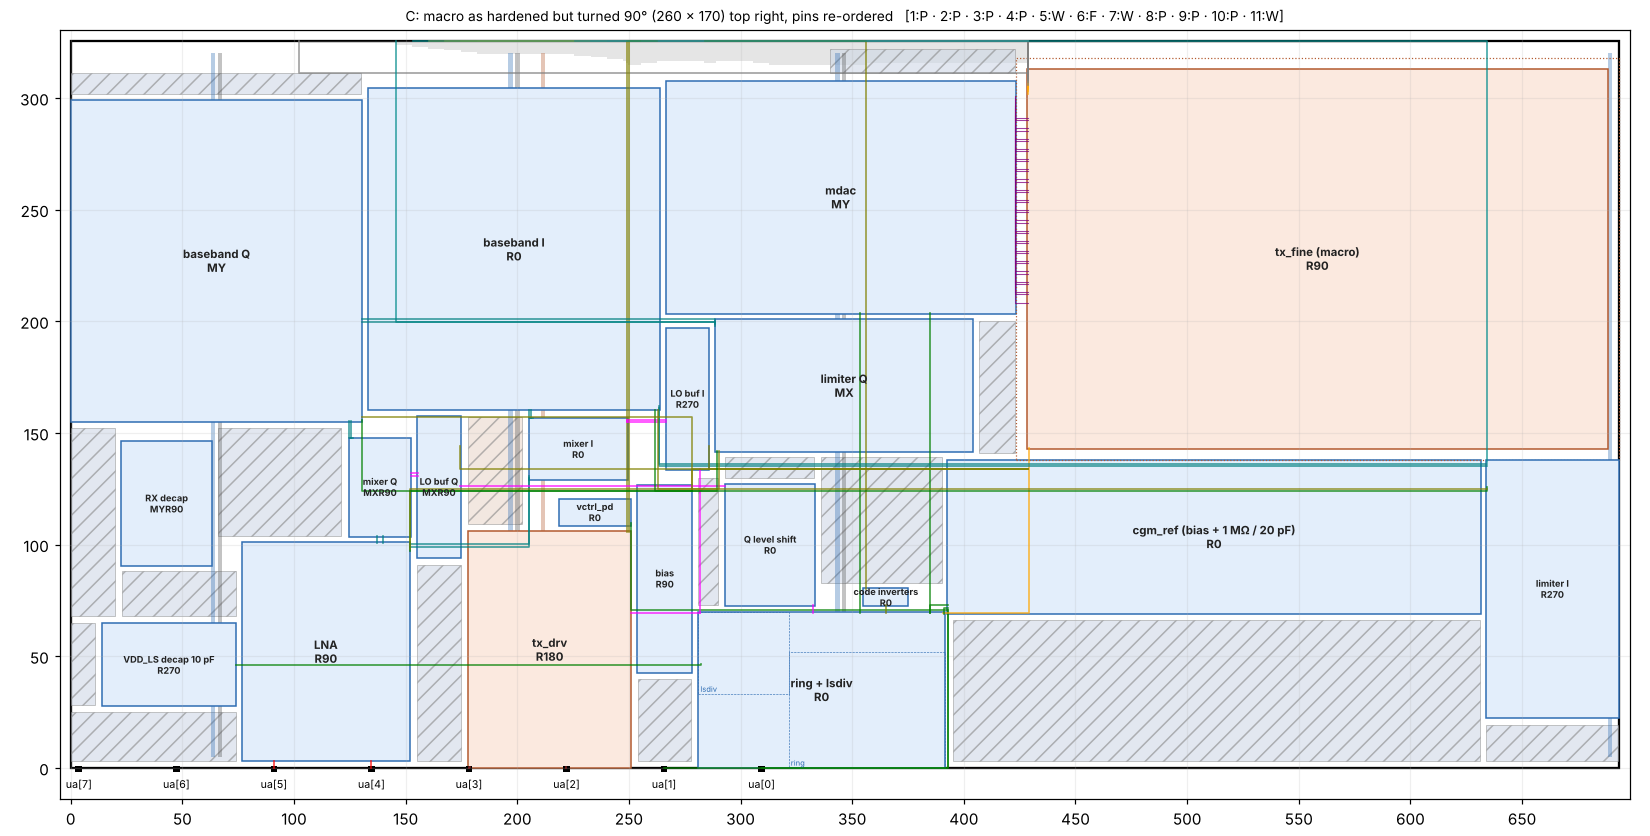
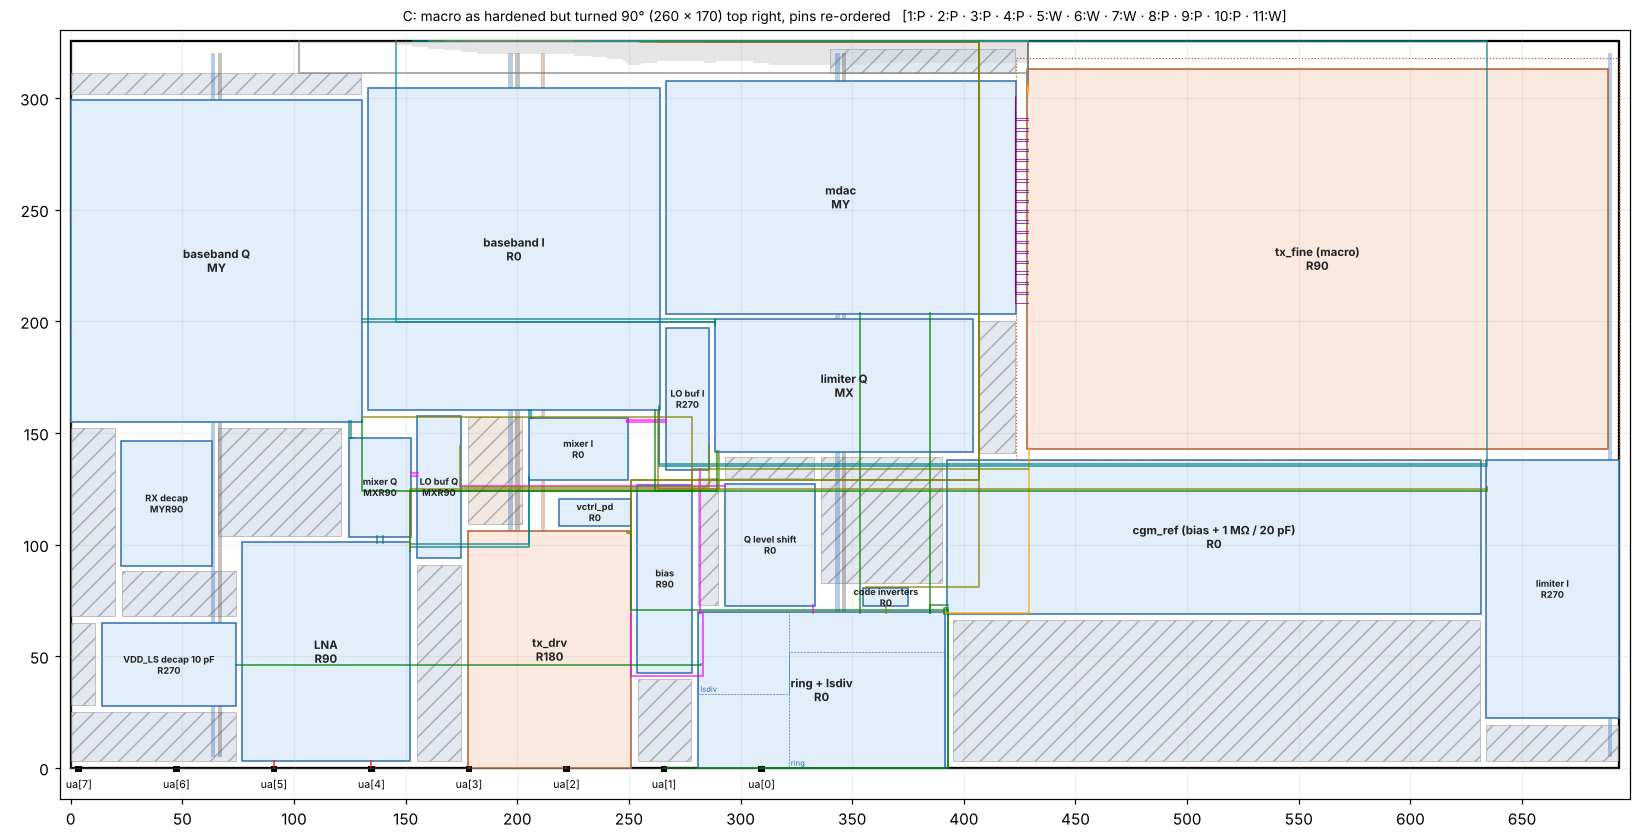
floorplan: rule 6 routes wires round the receiver instead of failing on a crossing flyline
A clock / digital / DAC / enable / TX / LO wire whose L route crosses a receiver block is routed round it on a 2 um
grid (A*); its length and drawing follow the route. Rule 6 scores the total detour and fails only when there is no way
round. rx_en reaches the LO buffers inside the receiver, as rx_top's en does. A and B now pass rule 6.

Claude-Session: https://claude.ai/code/session_011q23dScbDKopB6GSLnshRw

Changed region(s): [[0.2473, 0.0, 0.7727, 0.0311], [0.2782, 0.5598, 0.6182, 0.622]]

diff --git a/layout/floorplan/page/engine.js b/layout/floorplan/page/engine.js
@@ -152,7 +152,7 @@
     ['bq_p', 'rx', 'rx.mix_q.bbp', 'rx.bb_q.inp'], ['bq_n', 'rx', 'rx.mix_q.bbn', 'rx.bb_q.inn'],
     ['oi_p', 'rx', 'rx.bb_i.outp', 'rx.lim_i.inp'], ['oi_n', 'rx', 'rx.bb_i.outn', 'rx.lim_i.inn'],
     ['oq_p', 'rx', 'rx.bb_q.outp', 'rx.lim_q.inp'], ['oq_n', 'rx', 'rx.bb_q.outn', 'rx.lim_q.inn'],
-    ['rx_en lo_i', 'en', 'xmac.rx_en', 'rx.lobuf_i.en'], ['rx_en lo_q', 'en', 'xmac.rx_en', 'rx.lobuf_q.en'],
+    ['rx_en lo_i', 'en', 'rx.bias.en', 'rx.lobuf_i.en'], ['rx_en lo_q', 'en', 'rx.bias.en', 'rx.lobuf_q.en'],   // inside the receiver, as rx_top's en
   ].concat(['lna', 'bb_i', 'bb_q', 'lim_i', 'lim_q'].flatMap(c => [[`nb ${c}`, 'ana', 'rx.bias.nb', `rx.${c}.nb`], [`enb ${c}`, 'en', 'rx.bias.enb', `rx.${c}.enb`]]));
   const NET_CLASSES = {
     rfin: 'RX input', rx: 'RX signal', rxout: 'RX outputs', lo: 'LO', clk: 'ring-derived clock', dig: '25 MHz / SPI', fine: 'fine-tune bus',
@@ -167,6 +167,7 @@
     track: 0.8,            // um per wire in the top routing channel (tt_wrapper: 0.8 um M2 tracks)
     r1: 150,               // 1. RX input <-> macro and ring-derived / digital wires >= (um)
     r2a: 40, r2b: 120, r2m: 150,   // 2. a2 wire <=, ls -> rx <=, ls load - lsq load <=
+    r6: 300,               // 6. total extra length of the wires routed round the receiver <=
     r3: 40,                // 3. ua[4] / ua[5] -> LNA <=
     r4: 80,                // 4. tx_drv -> ua[2] / ua[3] <=
     r7: 200, r7b: 60,      // 7. DAC line (longest) <=, mdac.vg -> vco_top.vg <=
@@ -265,9 +266,80 @@
       const ownA = ownerOf(a), ownB = ownerOf(b);
       const others = Object.values(R.inst).filter(i => i.name !== ownA && i.name !== ownB).map(i => i.rect);
       const est = [a, b].some(r => { const o = ownerOf(r); return o && R.inst[o] && (R.inst[o].pins[r.slice(o.length + 1)] || {}).est; });
-      out.push({ name, cls, a, b, pa, pb, len: manhattan(pa, pb), segs: lRoute(pa, pb, others), est });
+      const n = { name, cls, a, b, pa, pb, len: manhattan(pa, pb), segs: lRoute(pa, pb, others), est };
+      // a clock / digital / DAC / enable / TX / LO wire whose L route crosses a receiver block (not one of its own
+      // ends; wires with both ends in the receiver are its own routing) is routed round the receiver on a grid
+      const rxOwn = [ownA, ownB].map(o => o && R.inst[o] && R.inst[o].cat.group === 'rx');
+      if (NOT_OVER_RX.includes(cls) && !(rxOwn[0] && rxOwn[1])) {
+        const rx = Object.values(R.inst).filter(i => i.cat.group === 'rx' && i.name !== ownA && i.name !== ownB).map(i => i.rect);
+        if (n.segs.some(sg => rx.some(r => segCrosses(sg, r, 0.6)))) {
+          const segs = mazeRoute(tile, pa, pb, rx);
+          if (segs) { n.segs = segs; n.len = segs.reduce((t, q) => t + Math.abs(q[2] - q[0]) + Math.abs(q[3] - q[1]), 0); n.detour = n.len - manhattan(pa, pb); }
+          else n.blocked = true;
+        }
+      }
+      out.push(n);
     }
     return out;
+  }
+
+  // Shortest Manhattan path from a to b on a GRID um grid that avoids the obstacle rects (each grown by 0.4 um),
+  // with a small penalty per turn; returns axis-aligned segments from a to b, or null when there is no way round.
+  const GRID = 2;
+  function mazeRoute(tile, a, b, obst) {
+    const nx = Math.ceil(tile.w / GRID), ny = Math.ceil(tile.h / GRID), N = nx * ny, blk = new Uint8Array(N);
+    for (const r of obst) {
+      const x0 = Math.max(0, Math.floor((r[0] - 0.4) / GRID)), x1 = Math.min(nx - 1, Math.floor((r[0] + r[2] + 0.4) / GRID));
+      const y0 = Math.max(0, Math.floor((r[1] - 0.4) / GRID)), y1 = Math.min(ny - 1, Math.floor((r[1] + r[3] + 0.4) / GRID));
+      for (let y = y0; y <= y1; y++) for (let x = x0; x <= x1; x++) blk[y * nx + x] = 1;
+    }
+    const cell = p => [Math.min(nx - 1, Math.max(0, Math.floor(p[0] / GRID))), Math.min(ny - 1, Math.max(0, Math.floor(p[1] / GRID)))];
+    const [sx, sy] = cell(a), [tx, ty] = cell(b), S0 = sy * nx + sx, T = ty * nx + tx;
+    blk[S0] = 0; blk[T] = 0;
+    // A* over (cell, direction), direction 0..3 = +x -x +y -y, 4 = start
+    const g = new Float64Array(N * 5).fill(Infinity), from = new Int32Array(N * 5).fill(-1), heap = [];
+    const push = (f, k) => { heap.push([f, k]); let i = heap.length - 1; while (i) { const p = (i - 1) >> 1; if (heap[p][0] <= heap[i][0]) break; [heap[p], heap[i]] = [heap[i], heap[p]]; i = p; } };
+    const pop = () => { const top = heap[0], last = heap.pop(); if (heap.length) { heap[0] = last; let i = 0; for (;;) { const l = 2 * i + 1, r = l + 1; let m = i; if (l < heap.length && heap[l][0] < heap[m][0]) m = l; if (r < heap.length && heap[r][0] < heap[m][0]) m = r; if (m === i) break; [heap[m], heap[i]] = [heap[i], heap[m]]; i = m; } } return top; };
+    const h = c => Math.abs((c % nx) - tx) + Math.abs(((c / nx) | 0) - ty);
+    g[S0 * 5 + 4] = 0; push(h(S0), S0 * 5 + 4);
+    const D = [[1, 0], [-1, 0], [0, 1], [0, -1]];
+    let end = -1;
+    while (heap.length) {
+      const [, k] = pop(), c = (k / 5) | 0, d = k % 5;
+      if (c === T) { end = k; break; }
+      const cx = c % nx, cy = (c / nx) | 0;
+      for (let e = 0; e < 4; e++) {
+        const x = cx + D[e][0], y = cy + D[e][1];
+        if (x < 0 || y < 0 || x >= nx || y >= ny) continue;
+        const c2 = y * nx + x; if (blk[c2]) continue;
+        const k2 = c2 * 5 + e, ng = g[k] + 1 + (d !== 4 && d !== e ? 0.5 : 0);
+        if (ng < g[k2]) { g[k2] = ng; from[k2] = k; push(ng + h(c2), k2); }
+      }
+    }
+    if (end < 0) return null;
+    const cells = []; for (let k = end; k >= 0; k = from[k]) cells.push((k / 5) | 0);
+    cells.reverse();
+    const pts = [a];
+    const ctr = c => [((c % nx) + 0.5) * GRID, (((c / nx) | 0) + 0.5) * GRID];
+    let prev = a;
+    for (let i = 0; i < cells.length; i++) {
+      const p = ctr(cells[i]), q = i === 0 ? [p[0], a[1]] : null;
+      if (q) { if (q[0] !== prev[0]) pts.push(q); prev = q; }
+      pts.push(p); prev = p;
+    }
+    const last = pts[pts.length - 1];
+    if (last[0] !== b[0]) pts.push([b[0], last[1]]);
+    pts.push(b);
+    // merge collinear points into segments
+    const segs = [];
+    for (let i = 0; i < pts.length - 1; i++) {
+      const s0 = [pts[i][0], pts[i][1], pts[i + 1][0], pts[i + 1][1]];
+      if (s0[0] === s0[2] && s0[1] === s0[3]) continue;
+      const L = segs[segs.length - 1];
+      if (L && ((L[0] === L[2] && s0[0] === s0[2] && L[2] === s0[0]) || (L[1] === L[3] && s0[1] === s0[3] && L[3] === s0[1]))) { L[2] = s0[2]; L[3] = s0[3]; }
+      else segs.push(s0);
+    }
+    return segs;
   }
 
   // The routing channel along the top: every net with a top-edge TT pin runs horizontally there, between the pin's
@@ -400,20 +472,17 @@
         `${cross.length} signals cross VAPWR ↔ VDPWR (3.3 V both, no level shifters; listed under Nets). Closest VAPWR ↔ VDPWR blocks ${fmt(sep, 1)} µm.`);
     }
 
-    // 6. no digital or LO wire over the receiver
+    // 6. no digital or LO wire over the receiver: such wires are routed round it (routeNets); fails only when there is
+    // no way round, warns when the detours add up past the threshold
     if (rxInst.length) {
-      const over = [];
-      for (const n of nets) {
-        if (!ok(n) || !NOT_OVER_RX.includes(n.cls)) continue;
-        const own = [ownerOf(n.a), ownerOf(n.b)];
-        for (const ri of rxInst) {
-          if (own.includes(ri.name)) continue;
-          if (n.segs.some(sg => segCrosses(sg, ri.rect, 0.6))) { over.push(`${n.name} over ${ri.cat.label || ri.name}`); break; }
-        }
-      }
+      const rr = nets.filter(n => ok(n) && n.detour !== undefined), bl = nets.filter(n => ok(n) && n.blocked);
+      const tot = rr.reduce((t, n) => t + n.detour, 0);
       const ch = rxInst.filter(ri => chanSh.some(c => overlap(c, ri.rect) > 0)).map(ri => ri.cat.label || ri.name);
-      add(6, 'No digital or LO wire over the RX', over.length || ch.length ? 'fail' : 'pass', over.length + ch.length ? `${over.length + ch.length}` : 'none',
-        (over.length ? `Flylines over receiver blocks: ${over.slice(0, 12).join(', ')}${over.length > 12 ? ` and ${over.length - 12} more` : ''}. ` : 'No clock, digital, DAC, enable, TX or LO flyline crosses a receiver block (its own wires excepted). ') +
+      const big = rr.slice().sort((p, q) => q.detour - p.detour);
+      add(6, 'No digital or LO wire over the RX', bl.length || ch.length ? 'fail' : tot > s.r6 ? 'warn' : 'pass',
+        bl.length ? `${bl.length} blocked` : rr.length ? `${rr.length} round, +${fmt(tot)} µm` : 'none',
+        (bl.length ? `No way round the receiver for: ${bl.map(n => n.name).join(', ')}. ` : '') +
+        (rr.length ? `Routed round the receiver (their straight L route would cross it): ${big.slice(0, 10).map(n => `${n.name} +${fmt(n.detour)}`).join(', ')}${big.length > 10 ? ` and ${big.length - 10} more` : ''} µm; detours ${fmt(tot)} µm in all (want ≤ ${s.r6}). ` : 'No clock, digital, DAC, enable, TX or LO wire needs to cross the receiver. ') +
         (ch.length ? `The top channel runs over: ${ch.join(', ')}. ` : '') + 'The baseband and limiter AC-coupling nodes are ~60 MΩ.');
     } else add(6, 'No digital or LO wire over the RX', 'info', '-', 'Place the receiver.');
 

diff --git a/layout/floorplan/page/page.html b/layout/floorplan/page/page.html
@@ -435,7 +435,7 @@ function draw() {
     if (n.missing) continue;
     if (S.layers.bus && n.cls === 'fine' && !/^dac_(tn\[0\]|tn\[30\]|sdn)$/.test(n.name)) continue;
     const hot = S.hoverNet === n.name;
-    const pts = [n.pa, n.segs[0].slice(2, 4), n.pb];
+    const pts = [n.segs[0].slice(0, 2)].concat(n.segs.map(q => q.slice(2, 4)));   // the L route, or the route round the receiver
     out.push(`<polyline data-net="${esc(n.name)}" points="${pts.map(p => `${p[0]},${Y(p[1])}`).join(' ')}" fill="none" stroke="${NET_COLOR[n.cls]}" stroke-width="${(hot ? 2.6 : n.cls === 'fine' ? 0.7 : 1.1) * scale}" stroke-opacity="${hot ? 1 : .8}" ${n.cls === 'en' ? `stroke-dasharray="${3 * scale} ${2 * scale}"` : n.est ? `stroke-dasharray="${1 * scale} ${1.5 * scale}"` : ''}/>`);
     out.push(`<polyline data-net="${esc(n.name)}" points="${pts.map(p => `${p[0]},${Y(p[1])}`).join(' ')}" fill="none" stroke="transparent" stroke-width="${7 * scale}"/>`);
   }
@@ -704,7 +704,7 @@ const WHY = {
   'LNA at ua[4] / ua[5]': 'The input pair: short, symmetric wires keep the input match and the common-mode rejection, and keep the input away from everything else.',
   'TX driver at ua[2] / ua[3]': 'tx_drv pushes 12.6 mA of 434 MHz edges into the pads: long wires add R, L and C, and radiate inside the tile. It is off while receiving, so its distance from the RX is soft, but ua[3] is the pad next to ua[4].',
   'Supply domains': 'VAPWR (3.3 V) feeds the quiet analog (vco_top, mdac, vctrl_pd, the code inverters) and the receiver; VDPWR feeds tx_drv and the digital macro; VGND is shared. Each block should take its supply from a nearby stripe of its own rail, and every signal between the two domains is a place where the supplies and grounds meet (listed under Supply crossings; all 3.3 V to 3.3 V, no level shifters).',
-  'No digital or LO wire over the RX': 'The baseband and limiter AC-coupling nodes are about 60 MΩ: a µV of coupling there is a signal. No clock, digital, DAC, enable, TX or LO flyline may cross a receiver block (its own wires excepted), nor the top channel run over it.',
+  'No digital or LO wire over the RX': 'The baseband and limiter AC-coupling nodes are about 60 MΩ: a µV of coupling there is a signal. So no clock, digital, DAC, enable, TX or LO wire runs over a receiver block (its own wires excepted, and the receiver\'s internal wiring). A wire whose straight L route would cross the receiver is routed round it on a 2 µm grid and drawn that way; the rule warns when the detours add up past the threshold and fails only when a wire has no way round, or the top channel runs over the receiver.',
   'Short fine-tune bus': 'The 37 DAC control lines (thermometer, binary and ΣΔ) from tx_fine to mdac switch with the code and the ΣΔ dither; short lines are less load for the macro and less coupling. mdac\'s vg output goes straight into the ring\'s shared node: it must be short.',
   'Macro near the top edge': 'The TT digital pins are on the top edge (x 15–321); the macro talks to them (clk, rst_n, SPI, fsk, ck_o and the dividers), and the code and enable pins go to vco_top and tx_drv. Their wires run in a channel along the top, as tall as the number of wires side by side at each x. The macro should sit close under it.',
   'Fit and spacing': 'Everything inside 693.28 × 325.36 µm, 2–3 µm between blocks for guard rings (the keep-out setting), nothing in the macro\'s halo, nothing on a reserved area.',
@@ -794,7 +794,7 @@ function renderIO() {
 function renderSettings() {
   const el = $('#secSettings'), s = S.settings;
   const fields = [['keepout', 'keep-out between blocks, µm'], ['track', 'top channel track pitch, µm'], ['r1', '1. RX input ↔ macro / clocks ≥'], ['r2a', '2. a2 wire ≤'], ['r2b', '2. ls → rx ≤'], ['r2m', '2. |I load − Q load| ≤'],
-    ['lsq', '2. lsq wire inside rx_top, µm'], ['r3', '3. ua[4] / ua[5] → LNA ≤'], ['r4', '4. tx_drv → ua[2] / ua[3] ≤'], ['r7', '7. longest DAC line ≤'], ['r7b', '7. mdac.vg → vco_top.vg ≤'], ['r8', '8. macro top ↔ tile top ≤'], ['r11', '11. cgm_ref → ring vbnf / vctrl ≤'], ['r11d', '11. their gap to clock / DAC wires ≥']];
+    ['lsq', '2. lsq wire inside rx_top, µm'], ['r6', '6. total detour round the RX ≤'], ['r3', '3. ua[4] / ua[5] → LNA ≤'], ['r4', '4. tx_drv → ua[2] / ua[3] ≤'], ['r7', '7. longest DAC line ≤'], ['r7b', '7. mdac.vg → vco_top.vg ≤'], ['r8', '8. macro top ↔ tile top ≤'], ['r11', '11. cgm_ref → ring vbnf / vctrl ≤'], ['r11d', '11. their gap to clock / DAC wires ≥']];
   el.innerHTML = `<h2>Thresholds <span class="meta">shared with everyone</span></h2>
     <div class="row">${fields.map(([k, l]) => `<label class="f">${l}<input type="number" step="0.5" data-set="${k}" value="${s[k]}"></label>`).join('')}</div>
     <div class="row edit-only"><button class="btn" id="bReset">Reset to defaults</button></div>`;

diff --git a/layout/floorplan/page/mutate.js b/layout/floorplan/page/mutate.js
@@ -28,13 +28,13 @@ const MUT = [
   ['tx_drv moved 300 µm from ua[2] / ua[3]', 4, v => { v.place.xtxd.x = 600; v.place.xtxd.y = 200; }],
   ['mdac moved to the far corner from the macro', 7, v => { const m = FP.resolve(cat, v).inst.xmac.rect; v.place.xmdac = { x: m[0] > 300 ? 3 : 530, y: 3, orient: 'R0' }; }],
   ['the macro dropped to the bottom (far from the top edge)', 8, v => { v.place.xmac.y = 3; }],
-  ['ck routed straight through the largest receiver block (macro above it, vco_top below it)', 6, v => {
+  ['ck: its straight route through the largest receiver block (macro above it, vco_top below it): it must go round', 6, v => {
     const R = FP.resolve(cat, v), big = Object.values(R.inst).filter(i => i.cat.group === 'rx').sort((a, b) => b.rect[2] * b.rect[3] - a.rect[2] * a.rect[3])[0].rect;
     const cx = big[0] + big[2] / 2, mck = cat.xmac.pins.ck, vn = vco(v), vck = cat[vn].pins.ck;
     if (v.pins) { delete v.pins.xmac; delete v.pins[vn]; }
     v.est = {}; v.place.xmac = { x: cx - mck.x, y: big[1] + big[3] + 10, orient: 'R0' };   // ck on its south edge
     v.place[vn] = { x: cx - vck.x, y: big[1] - 80, orient: 'R0' };                          // ck on its edge, below the block
-  }, 'ck over'],
+  }, 'ck'],
   ['vco_top split: cgm_ref moved 200 µm from the ring', 11, v => { v.place['vco.ref'].y += 150; v.place['vco.ref'].x -= 50; }],
 ];
 let bad = 0;
@@ -43,7 +43,7 @@ for (const [what, rule, f, expect] of MUT) {
   const v = clone(base), [s0, v0] = st(base, rule);
   f(v);
   const [s1, v1, d1] = st(v, rule);
-  const caught = expect ? s1 === 'fail' && d1.includes(expect) : RANK[s1] > RANK[s0];
+  const caught = RANK[s1] > RANK[s0] && (!expect || d1.includes(expect));
   console.log(`${caught ? 'caught ' : 'MISSED '} rule ${String(rule).padEnd(2)} ${s0.padEnd(4)} ${String(v0).padEnd(14)} -> ${s1.padEnd(4)} ${String(v1).padEnd(14)} ${what}  [on ${base.id}]`);
   if (!caught) bad++;
 }

diff --git a/tools/floorplan_draw.py b/tools/floorplan_draw.py
@@ -42,8 +42,9 @@ for n, i in d['inst'].items():
 col = {'rfin': 'red', 'rx': 'teal', 'rxout': 'darkcyan', 'lo': 'magenta', 'clk': 'orange', 'dig': 'gray', 'fine': 'purple', 'en': 'olive', 'tx': 'brown', 'ana': 'green'}
 for nt in d['nets']:
     a, b = nt['pa'], nt['pb']
-    s0 = nt['segs'][0]
-    ax.plot([a[0], s0[2], b[0]], [a[1], s0[3], b[1]], color=col[nt['cls']], lw=.7 if nt['cls'] == 'fine' else 1.1, alpha=.75)
+    xs = [nt['segs'][0][0]] + [q[2] for q in nt['segs']]
+    ys = [nt['segs'][0][1]] + [q[3] for q in nt['segs']]
+    ax.plot(xs, ys, color=col[nt['cls']], lw=.7 if nt['cls'] == 'fine' else 1.1, alpha=.75)
 if '--pins' in sys.argv:
     for n, i in d['inst'].items():
         for p, (x, y, est) in i['pins'].items():

diff --git a/docs/floorplan_spec.md b/docs/floorplan_spec.md
@@ -82,7 +82,7 @@ and so does the macro's 25 MHz clock.
 | 3 | LNA at ua[4] / ua[5] | the longer of the two input flylines, and their difference | ≤ 40 µm, Δ ≤ 10 µm |
 | 4 | TX driver at ua[2] / ua[3] | the longer output flyline (and, reported, its gap to the RX input) | ≤ 80 µm (warn ≤ 200) |
 | 5 | Supply domains | fails if a rail with blocks has no stripe; warns if a block's nearest supply stripe is the other rail; lists every VAPWR ↔ VDPWR crossing | – |
-| 6 | No digital or LO wire over the receiver | any clock, digital, DAC, enable, TX or LO flyline crossing a receiver block (its own wires excepted), or the top channel over it | none |
+| 6 | No digital or LO wire over the receiver | a clock, digital, DAC, enable, TX or LO wire whose L route would cross a receiver block (not one of its own ends; the receiver's internal wiring excepted) is routed round the receiver on a 2 µm grid; scored on the total detour, fails if a wire has no way round or the top channel runs over the receiver | detours ≤ 300 µm |
 | 7 | Short fine-tune bus | the longest of the 37 DAC lines; mdac vg → vco_top vg | ≤ 200 µm; vg ≤ 60 µm |
 | 8 | The macro near the top edge | the gap from the macro's top to the tile's; fails if a block sits in the top channel or the gap is less than the channel needs over the macro | ≤ 40 µm |
 | 9 | Fit and spacing | overlaps (the macro's halo counts, and reserved areas), blocks outside the tile, gaps under the keep-out | keep-out 2.5 µm |
@@ -150,7 +150,7 @@ fail).
 | tx_drv moved 300 µm from ua[2] / ua[3]  | 4 | pass 1 µm → fail 623 µm (A) |
 | mdac moved to the far corner from the macro  | 7 | pass 196 µm → fail 706 µm (A) |
 | the macro dropped to the bottom (far from the top edge)  | 8 | pass 12.4 µm → warn 62.4 µm (A) |
-| ck routed straight through the largest receiver block (macro above it, vco_top below it)  | 6 | fail 6 → fail 11 (A) |
+| ck: its straight route through the largest receiver block (macro above it, vco_top below it) | 6 | pass 6 round, +259 µm → fail 5 blocked, ck among them (A) |
 | vco_top split: cgm_ref moved 200 µm from the ring  | 11 | warn 52 µm → fail 152 µm (A) |
 
 - **Block mode:** `rx_top` placed as one block scores rules 1, 2, 3, 6 and 9 from its own pins and its LNA zone
@@ -172,19 +172,20 @@ layouts. A first try with a 560 × 79 µm macro strip under the TT pins was drop
 | Variant | 1 | 2 | 3 | 4 | 5 | 6 | 7 | 8 | 9 | 10 | 11 |
 |---|---|---|---|---|---|---|---|---|---|---|---|
 | current | – | – | – | F | W | – | W | P | P | P | – |
-| A: no re-harden: macro as it is on the right edge, vco_top split | P | W | P | P | W | F | P | P | P | P | W |
-| B: squarish macro top right (250 × 177), vco_top split, every pin fitted | P | P | P | P | W | F | P | P | P | P | W |
-| C: macro as hardened but turned 90° (260 × 170) top right, pins re-ordered | P | P | P | P | W | F | W | P | P | P | W |
-| P3 (first set, as Matt left it on the page) | W | P | P | P | W | F | W | P | W | P | – |
+| A: no re-harden: macro as it is on the right edge, vco_top split | P | W | P | P | W | P | P | P | P | P | W |
+| B: squarish macro top right (250 × 177), vco_top split, every pin fitted | P | W | P | P | W | P | P | P | P | P | W |
+| C: macro as hardened but turned 90° (260 × 170) top right, pins re-ordered | P | P | P | P | W | W | W | P | P | P | W |
+| P3 (first set, as Matt left it on the page) | W | P | P | P | W | W | W | P | W | P | – |
 
 **Table III.** Key wires in the presets (µm, Manhattan).
 
 | Wire | A | B | C |
 |---|---|---|---|
 | RX input ↔ macro and clocks (rule 1) | 212 | 210 | 210 |
-| a2 → aq / ls → receiver | 3 / 121 | 10 / 63 | 3 / 64 |
+| a2 → aq / ls → receiver (routed round it where needed) | 3 / 121 | 10 / 121 | 3 / 64 |
 | ua[4] → LNA inp; tx_drv → ua[2] / ua[3] | 3; 0 / 1 | 3; 0 / 0 | 3; 0 / 1 |
 | longest DAC line; mdac vg → ring | 196; 18 | 16; 3 | 16; 134 |
+| wires routed round the receiver (rule 6) | 6, +259 | 3, +108 | 4, +757 |
 | cgm_ref → ring vbnf / vctrl | 51 / 52 | 47 / 12 | 11 / 5 |
 | vctrl → ua[0] | 268 | 149 | 154 |
 | q_i / q_q → uo[4] / uo[5] | 146 / 215 | 389 / 334 | 669 / 268 |
